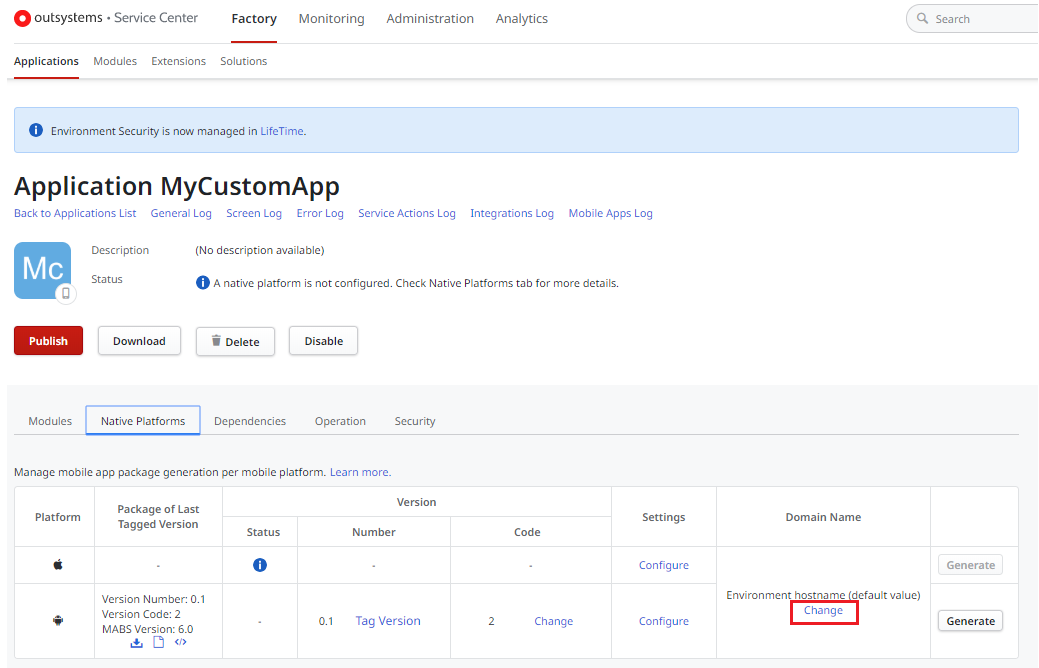
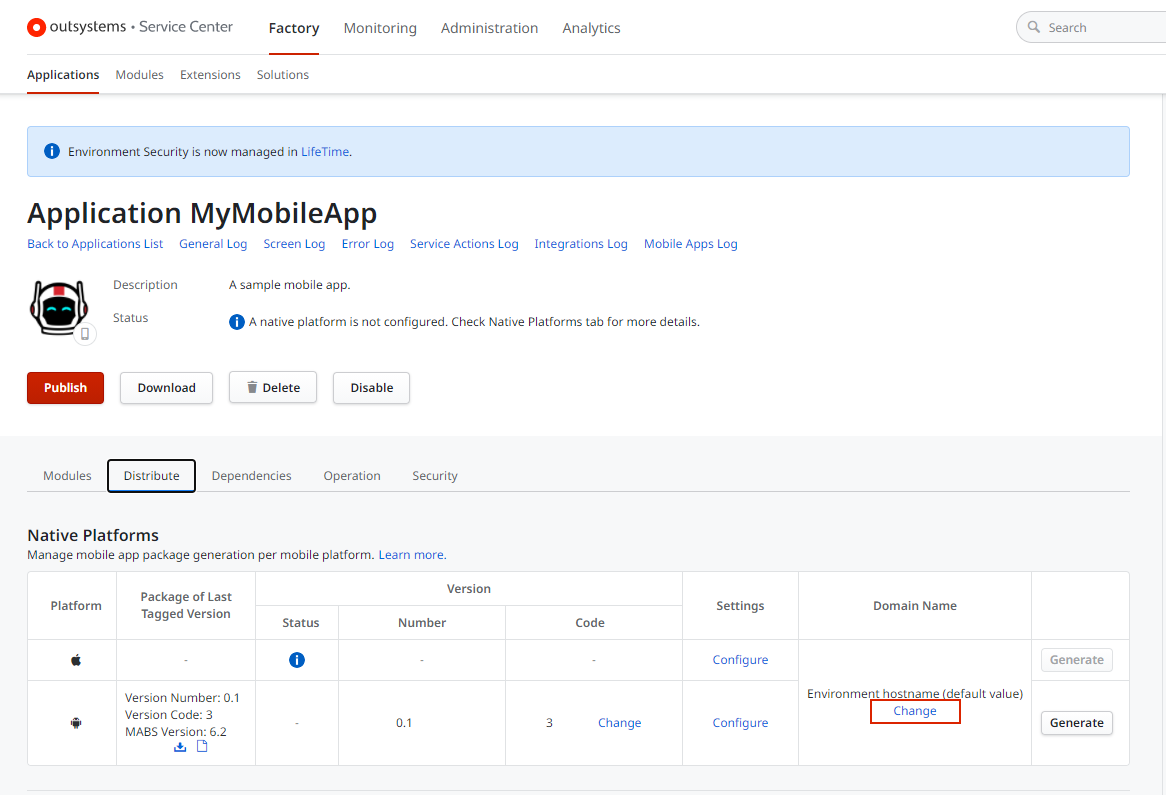
Update the generate mobile apps doc + PWA
* Info and screenshot updated
* Added info/link to new instructions

diff --git a/src/deliver-mobile/generate-and-distribute-your-mobile-app/intro.md b/src/deliver-mobile/generate-and-distribute-your-mobile-app/intro.md
@@ -7,9 +7,9 @@ tags: runtime-mobile
 
 Before generating your mobile app for the first time, you have to configure specific iOS and/or Android settings. Check the [topics listed at the end of this page](#Articles_in_this_Section) for details about different scenarios, such as development tests, distributing your app to a limited group of end users or publishing your app in Mobile App Stores.
 
-The following sections show how to configure and generate iOS and Android application packages of your mobile apps in Service Studio or in Service Center.
+The following sections show how to configure and generate iOS and Android app packages of your mobile apps in Service Studio or in Service Center.
 
-For additional information about generating and distributing iOS and Android application packages, see [More Information on Generating and Distributing Mobile Apps](more-information-on-generating-and-distributing-mobile-apps.md).
+For additional information about generating and distributing iOS and Android app packages, see [More Information on Generating and Distributing Mobile Apps](more-information-on-generating-and-distributing-mobile-apps.md).
 
 <div class="info" markdown="1">
 
@@ -23,13 +23,13 @@ To configure or generate your mobile app package (iOS or Android) in Service Stu
 
 1. Navigate to the app detail screen of your mobile app. 
 
-1. Select the **Native Platforms** tab. 
+1. Select the **Distribute** tab. The native mobile settings are in the **Native Platforms** section.
 
 1. When configuring your mobile app for the first time for a given platform (iOS or Android), click on the **Configure iOS App** or **Configure Android App** button, according to the platform. Follow the configuration steps for your desired scenario, described in the [topics listed at the end of this page](#Articles_in_this_Section). If you have previously defined your mobile app's iOS or Android configuration settings, click on the cog icon for the correct platform to change your configuration. 
 
-1. After defining or changing your mobile app iOS or Android settings, click on the **Generate App** button.
+1. After defining or changing your mobile app iOS or Android settings, click on the **Generate App** button. 
 
-    ![](images/ss_native_platforms_tab.png)
+    ![Native app settings in Service Studio](images/native-platforms-tab-ss.png?width=600)
 
 ## Configure and Generate a Mobile App Package in Service Center
 
@@ -38,22 +38,28 @@ Center, do the following:
 
 1. Open the Service Center console of the environment (`https://<environmentdomain>/ServiceCenter`) and navigate to **Factory**.
 
-1. Click on the **Applications** tab, open your mobile application from the applications list and select the **Native Platforms** tab.
+1. Click on the **Applications** tab, open your mobile app from the app list, then select the **Distribute** tab. The native mobile settings are in the **Native Platforms** section.
+
+    ![Native app settings in Service Center](images/sc-native-platforms-tab.png?width=750)
+
 
 1. To configure your mobile app package for the first time or to change the current configuration for a given platform (iOS or Android), click on the **Configure** link for the iOS or Android entry. Follow the configuration steps for your desired scenario, described in the [topics listed at the end of this page](#Articles_in_this_Section).
 
-    ![](<images/sc-configure-android-settings.png>)
+    ![Android settings in Service Center](<images/sc-configure-android-settings.png>)
 
 1. After defining or changing your mobile app iOS or Android settings, click on the **Save** button.
 
 1. At the end of the configuration settings page, select the MABS version you wish to use for generating the mobile app package for the mobile platform you're configuring (iOS or Android) in the current environment.  
-    For more information check [Choosing the MABS Version to Build Your Mobile Packages](<#choosing-the-mabs-version-to-build-your-mobile-packages>).
+    
+    <div class="info" markdown="1">
+    
+    For more information about MABS check [Choosing the MABS Version to Build Your Mobile Packages](<#choosing-the-mabs-version-to-build-your-mobile-packages>)
+
+    </div>
 
 1. Click **Save and Generate** and wait a few moments while OutSystems generates your mobile app package.
 
-    ![](images/sc-native-platforms-tab.png)
-
-Now that the application is configured, the next time you need to generate a new mobile app package, just click the **Generate** button.
+Now that you have configured the app, the next time you need to generate a new mobile app package, just click the **Generate** button.
 
 ### Customizing the Mobile App Domain Name
 
@@ -71,31 +77,31 @@ You can customize the domain name for each mobile app in Service Center. By defa
 
 To define a different domain name for your mobile app, do the following:
 
-1. In **Native Platforms** tab, click the **Change** link in the Domain Name column.
+1. In the **Distribute** tab, under the section **Native Platforms**, click the **Change** link in the **Domain Name** column.
 
-    ![](<images/sc-change-hostname.png>)
+    ![Hostname settings for mobile apps](<images/sc-change-hostname.png?width=750>)
 
-1. Enter the new domain name for the mobile app and click **Apply**.
+1. Enter the new domain name for the mobile app and click **Apply**. 
 
-You need to regenerate the mobile app for the changes to take effect.
+1. **Regenerate the mobile app** for the changes to take effect.
 
 ### Customizing the Mobile App Version Code
 
-The mobile app version code is an internal number associated to the generation of the mobile app package. App stores use this number to determine whether one version is more recent than another. See more detailed information in [Android](https://developer.android.com/studio/publish/versioning) and [iOS](https://help.apple.com/app-store-connect/#/dev82a6a9d79) documentation.
+The mobile app version code is an internal number associated with the generation of the mobile app package. App stores use this number to determine whether one version is more recent than another. See more detailed information in [Android](https://developer.android.com/studio/publish/versioning) and [iOS](https://help.apple.com/app-store-connect/#/dev82a6a9d79) documentation.
 
-By default, OutSystems **increments the version code by one** every time the mobile app package is generated.
+By default, OutSystems **increments the version code by one** every time the MABS generates the mobile app package.
 
-For some cases, you might need to change the default mobile app version code. For example, if you are migrating an existing mobile app from other technology to OutSystems, the current version code of your app in the app store is higher than the first OutSystems app version code. In this case, you can the set version code of your OutSystems mobile app to a different value.
+For some cases, you might need to change the default mobile app version code. For example, if you are migrating an existing mobile app from other technology to OutSystems, the current version code of your app in the app store is higher than the first OutSystems app version code. In this case, you can set the version code of your OutSystems mobile app to a different value.
 
 To set a different version code for your mobile app, do the following:
 
-1. In **Native Platforms** tab, click the **Change** link in the Code column for the iOS or Android entry.
+1. In the **Distribute** tab, under the section **Native Platforms**, click the **Change** link in the **Code** column for the iOS or Android entry.
 
-    ![](<images/sc-change-versioncode.png>)
+    ![App code version settings for mobile apps](<images/sc-change-versioncode.png?width=750>)
 
 1. Enter the new code for the mobile app and click **Apply**.
 
-The next time you generate a new application package, the version code increments by one.
+The next time you generate a new app package, the version code increments by one.
 
 ### Choosing the MABS Version to Build Your Mobile Packages { #choosing-the-mabs-version-to-build-your-mobile-packages }
 
@@ -103,19 +109,21 @@ The [Mobile Apps Build Service (MABS)](<../mobile-apps-build-service/intro.md>) 
 
 MABS is continuously improved and OutSystems regularly makes available new versions of this cloud service. However, you might not want to use the latest version, since different MABS versions support different mobile stacks and therefore different ranges of devices and mobile platform versions.
 
-You can select the MABS version used to generate the mobile packages **by mobile app** and **by mobile platform** (iOS and Android), for a given environment. This selection is done in Service Center at the application level.
+You can select the MABS version used to generate the mobile packages **by mobile app** and **by mobile platform** (iOS and Android), for a given environment. You can do this in Service Center at the app level.
 
 To choose a MABS version do the following:
 
-1. In Service Center, click on the **Applications** tab, open your mobile app from the applications list and select the **Native Platforms** tab.
+1. In Service Center, click on the **Applications** tab, open your mobile app from the app list and select the **Distribute** tab. The native mobile settings are in the **Native Platforms** section.
 
-1. Click on **Configure** link for the iOS or Android entry. 
+1. In the **Settings** column, click on the **Configure** link for the iOS or Android entry.
+
+    ![Mobile app settings screen](images/sc-open-mabs-version-selection.png?width=750)
 
 1. At the end of the configuration settings page, select the MABS version you wish to use for generating the mobile app package for the mobile platform you're configuring (iOS or Android) in the current environment, either the latest available version or a specific version (see below for details).
 
-    ![](<images/sc-select-mabs-version.png>)
+    ![Mobile Apps Build Service (MABS) version selection)](<images/sc-select-mabs-version.png>)
 
-    _Note:_ The MABS version selection is only available for applications whose native platform settings are already configured.
+    **Note:** The MABS version selection is only available for apps whose native platform settings are already configured.
 
 1. Click **Save and Generate** and wait a few moments while OutSystems generates your mobile app package.
 
@@ -136,9 +144,9 @@ You can obtain the build logs of your mobile apps in Service Center. Build logs 
 To obtain a mobile app build log:
 
 1. Access the Service Center of the environment (`https://<environmentdomain>/ServiceCenter`).
-1. Go to **Factory** and click the Applications tab.
+1. Go to **Factory** and click the **Applications** tab.
 1. Click your mobile app name to navigate to the mobile app detail page.
-1. In the Native Platforms tab, click the log icon for the desired platform to download the build log.
+1. In the **Distribute** tab, under the **Native Platforms** section, click the log icon for the desired platform to download the build log.
 
 ![](<images/sc-download-build-logs.png>)
 
@@ -147,3 +155,19 @@ To obtain a mobile app build log:
 In most occasions, the users of your mobile app don't have to update it manually after installing it in their devices, since OutSystems automatically pushes the updates to their devices when you publish a new mobile app version.
 
 However, in some specific situations, the users must install a new mobile app package. For more information check [Mobile App Update Scenarios](<../mobile-app-update-scenarios.md>).
+
+## Distribute your app as PWA
+
+You can use the settings in Service Center to configure your app as progressive web app (PWA). PWAs run from your server and don't require distribution though the app stores.
+
+For more information check out [Distribute as a progressive web app (PWA)](../distribute-pwa/intro.md).
+
+To set an app for the PWA distribution in Service Center, do the following:
+
+1. Open the Service Center console of the environment (`https://<environmentdomain>/ServiceCenter`) and navigate to **Factory**.
+
+1. Click on the **Applications** tab, open your mobile app from the app list, then select the **Distribute** tab. The PWA settings are in the **Progressive Web Application (PWA)** section.
+
+    ![PWA settings in Service Center](images/sc-pwa-settings.png?width=750)
+
+1. Select the checkbox **Distribute as PWA**, then click on **Apply**.

diff --git a/src/deliver-mobile/distribute-pwa/intro.md b/src/deliver-mobile/distribute-pwa/intro.md
@@ -48,11 +48,14 @@ Create a mobile app and turn on the toggle **Distribute as PWA** in the app deta
 
 1. Publish the app.
 
-1. In the app details, under the **Distribute** tab, turn on the toggle **Distribute as PWA**. To locate the **Distribute** tab, go back to the home screen of Service Studio and click your application icon.
+1. In the app details, under the **Distribute** tab, turn on the toggle **Distribute as PWA**. To locate the **Distribute** tab, go back to the home screen of Service Studio and click your app icon.
    
     ![The PWA toggle to activate progressive web app distribution](images/pwa-toggle.png?width=600)
 
-You don't have to republish your app after changing the value of the **Distribute as PWA**, as this change is effective immediately.
+**Notes**
+
+* You don't have to republish your app after changing the value of the **Distribute as PWA**, as this change is effective immediately.
+* You can also change the PWA settings for an app in an environment through Service Center. For more information, see [Generate and distribute your mobile app](../generate-and-distribute-your-mobile-app/intro.md#distribute-your-app-as-pwa).
 
 <div class="warning" markdown="1">
 
